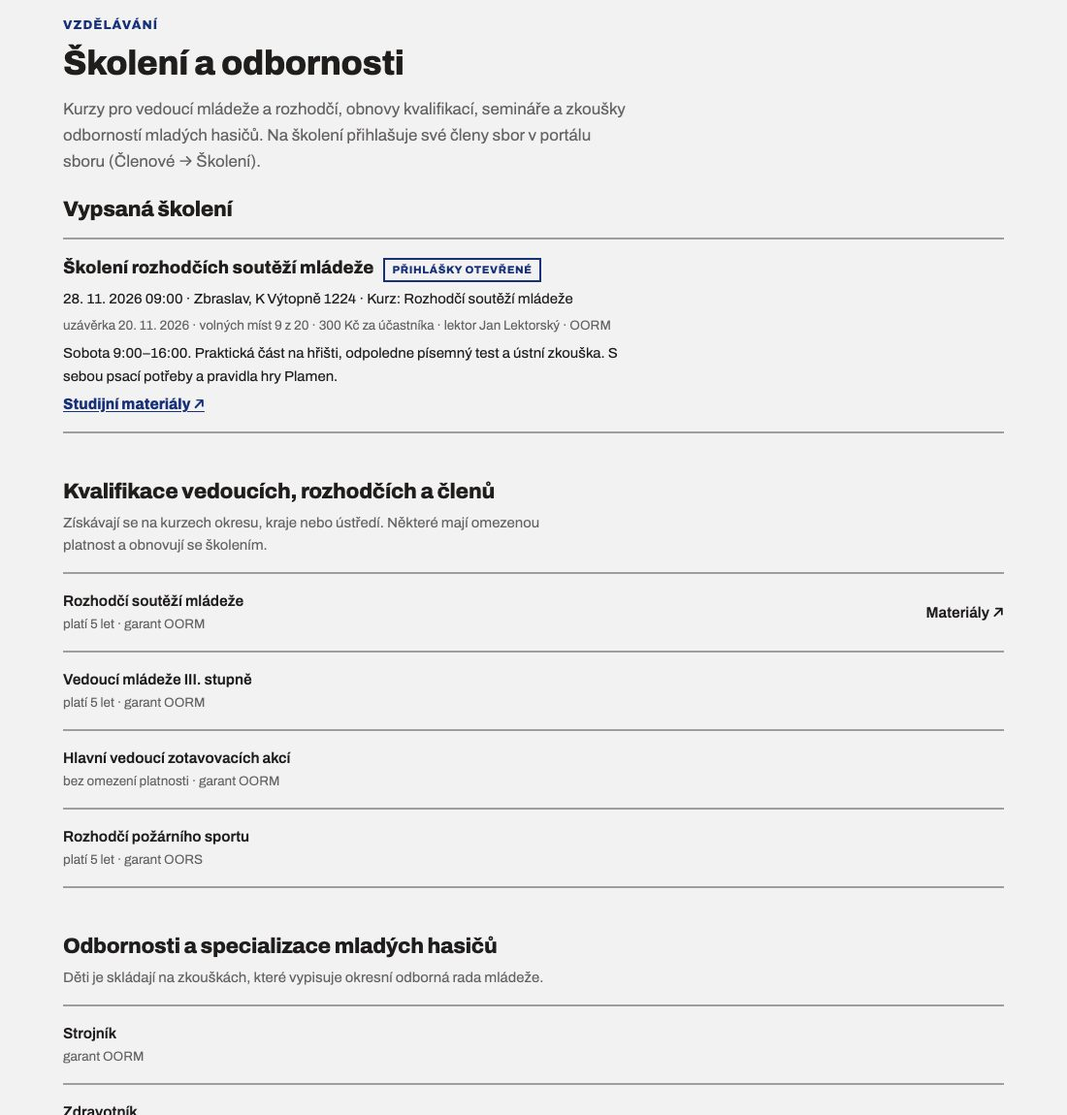
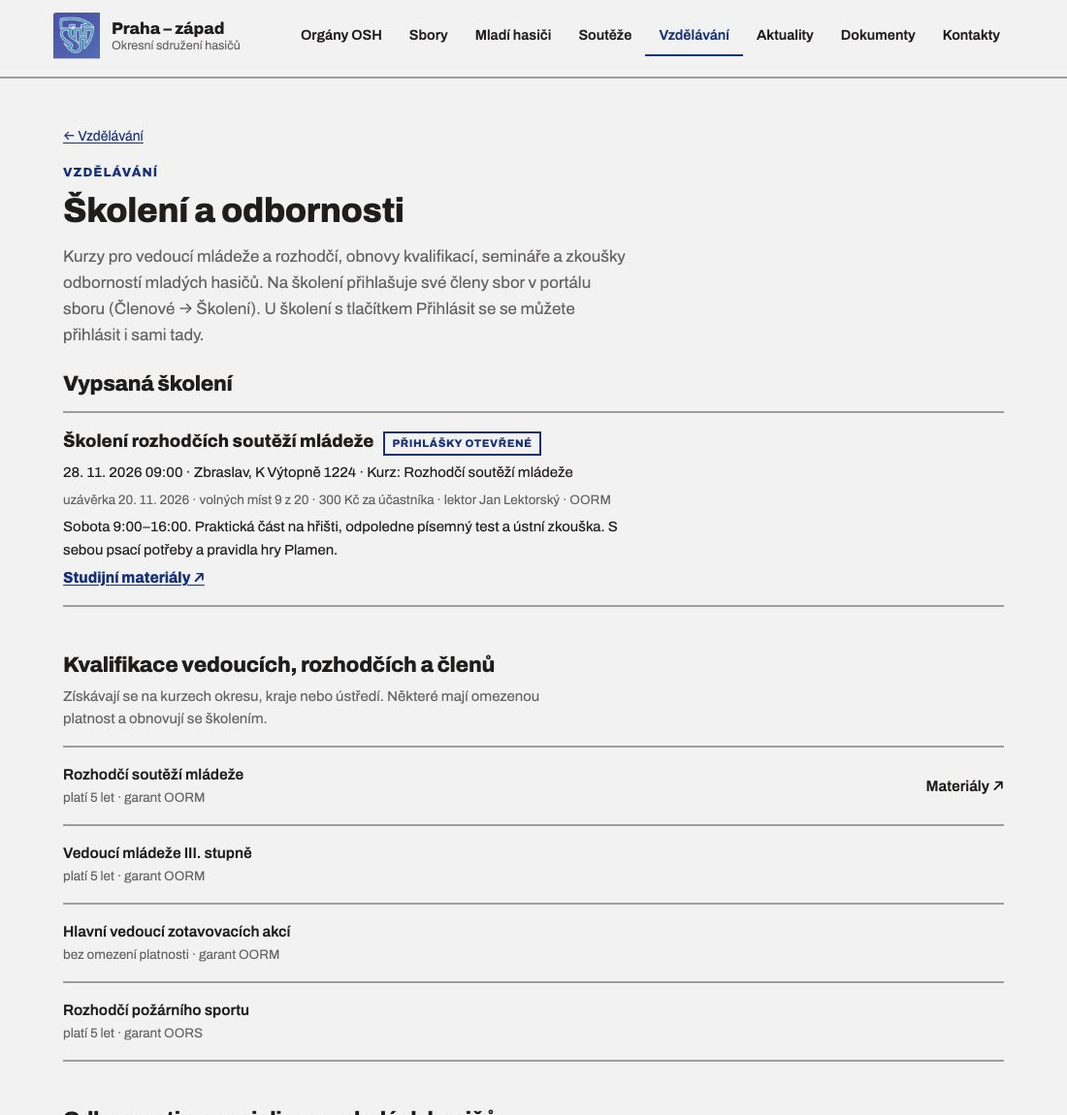
Web: nová sekce Vzdělávání v hlavní navigaci – rozcestník (Školení a odbornosti, Cvičné otázky, Online kurzy připravujeme, nejbližší školení a sady otázek), stránky školení a cvičných otázek přesunuty z Dokumentů, mobilní nabídka

diff --git a/index.html b/index.html
@@ -683,7 +683,7 @@ footer.site a:hover{ color:var(--color-action); text-decoration:underline; }
     <li><button class="linkrow" onClick="{{ goRodice }}"><span>Pro rodiče<small>Jak dítě přihlásit, co to stojí a kde se schází</small></span><span>→</span></button></li>
     <li><button class="linkrow" onClick="{{ goSouteze }}"><span>Soutěže<small>Plánované soutěže, přihlášky a výsledky</small></span><span>→</span></button></li>
     <li><button class="linkrow" onClick="{{ goSkoleni }}"><span>Odbornosti a specializace<small>Zkoušky odborností, kvalifikace vedoucích a rozhodčích, materiály</small></span><span>→</span></button></li>
-    <li><button class="linkrow" onClick="{{ goProcvicovani }}"><span>Procvičování otázek<small>Otázky k odbornostem a k testům na školení – učení po otázkách i test nanečisto</small></span><span>→</span></button></li>
+    <li><button class="linkrow" onClick="{{ goProcvicovani }}"><span>Cvičné otázky<small>K odbornostem a k testům na školení – učení po otázkách i test nanečisto</small></span><span>→</span></button></li>
     <li><div class="linkrow" style="cursor:default;"><span>Závody hasičské všestrannosti a brannosti<small>Cvičné testy a disciplíny</small></span><span class="soon">Připravujeme</span></div></li>
   </ul>
   <div class="block">
@@ -1036,9 +1036,36 @@ footer.site a:hover{ color:var(--color-action); text-decoration:underline; }
 </div>
 </sc-if>
 
+<!-- Vzdělávání (rozcestník sekce): školení a kurzy, cvičné otázky, online kurzy (připravujeme) – data ?co=web (skoleni, testy) -->
+<sc-if value="{{ isVzdelavani }}" hint-placeholder-val="{{ false }}">
+<div class="page">
+  <span class="kicker">Vzdělávání</span>
+  <h1 class="h1">Vzdělávání</h1>
+  <p class="lead">Školení, kurzy a příprava pro členy sborů – vedoucí mládeže, rozhodčí, strojníci a další. Pro mladé hasiče cvičné otázky k odbornostem.</p>
+  <div class="block grid3">
+    <button class="cell" onClick="{{ goSkoleni }}"><span class="cell-t">Školení a odbornosti →</span><span class="cell-c">{{ vz.skoleniText }}</span></button>
+    <button class="cell" onClick="{{ goProcvicovani }}"><span class="cell-t">Cvičné otázky →</span><span class="cell-c">{{ vz.otazkyText }}</span></button>
+    <div class="cell" style="cursor:default;display:flex;flex-direction:column;justify-content:center;"><span class="cell-t">Online kurzy <span class="soon">Připravujeme</span></span><span class="cell-c">Výukové materiály a kurzy, které projdete doma vlastním tempem.</span></div>
+  </div>
+  <sc-if value="{{ vz.maSkoleni }}" hint-placeholder-val="{{ false }}">
+    <div class="block">
+      <h2 class="h2">Nejbližší školení</h2>
+      <ul class="list"><sc-for list="{{ vz.skoleni }}" as="x" hint-placeholder-count="3"><li><button class="linkrow" onClick="{{ goSkoleni }}"><span>{{ x.nazev }}<small>{{ x.info }}</small></span><span>{{ x.stitek }} →</span></button></li></sc-for></ul>
+    </div>
+  </sc-if>
+  <sc-if value="{{ vz.maOtazky }}" hint-placeholder-val="{{ false }}">
+    <div class="block">
+      <h2 class="h2">Cvičné otázky</h2>
+      <ul class="list"><sc-for list="{{ sk.testy }}" as="t" hint-placeholder-count="2"><li><button class="linkrow" onClick="{{ t.go }}"><span>{{ t.nazev }}<small>{{ t.popis }}</small></span><span>Procvičovat →</span></button></li></sc-for></ul>
+    </div>
+  </sc-if>
+</div>
+</sc-if>
+
 <!-- Školení a odbornosti (B18): vypsaná školení okresu a katalog kvalifikací z ?co=web (Skoleni.gs) – bez jmen účastníků -->
 <sc-if value="{{ isSkoleni }}" hint-placeholder-val="{{ false }}">
 <div class="page">
+  <button class="back" onClick="{{ goVzdelavani }}">← Vzdělávání</button>
   <span class="kicker">Vzdělávání</span>
   <h1 class="h1">Školení a odbornosti</h1>
   <p class="lead">Kurzy pro vedoucí mládeže a rozhodčí, obnovy kvalifikací, semináře a zkoušky odborností mladých hasičů. Na školení přihlašuje své členy sbor v portálu sboru (Členové → Školení). U školení s tlačítkem Přihlásit se se můžete přihlásit i sami tady.</p>
@@ -1102,7 +1129,7 @@ footer.site a:hover{ color:var(--color-action); text-decoration:underline; }
     </div>
   </sc-for>
   <div class="block" id="procvicovani">
-    <h2 class="h2">Procvičování otázek</h2>
+    <h2 class="h2">Cvičné otázky</h2>
     <sc-if value="{{ sk.bezTestu }}" hint-placeholder-val="{{ false }}"><ul class="list"><li><div class="linkrow" style="cursor:default;"><span>Otázky k odbornostem a školením<small>Připravují odborné rady okresu</small></span><span class="soon">Připravujeme</span></div></li></ul></sc-if>
     <sc-if value="{{ sk.maTesty }}" hint-placeholder-val="{{ true }}">
       <p style="color:var(--muted);max-width:60ch;margin:-8px 0 16px;">Učte se otázku po otázce (co umíte, už se neukazuje), zkuste si test nanečisto, nebo si projděte všechny otázky se správnými odpověďmi.</p>
@@ -1119,7 +1146,7 @@ footer.site a:hover{ color:var(--color-action); text-decoration:underline; }
   <span class="kicker">Vzdělávání</span>
   <h1 class="h1">{{ pv.nadpis }}</h1>
   <sc-if value="{{ pv.vyber }}" hint-placeholder-val="{{ true }}">
-    <p class="lead">Otázky k testům na školení a ke zkouškám odborností. Vyberte sadu – můžete se učit otázku po otázce, vyzkoušet si test nanečisto, nebo si projít všechny otázky se správnými odpověďmi. Co už umíte, si pamatuje tento prohlížeč.</p>
+    <p class="lead">Otázky k testům na školení a ke zkouškám odborností mladých hasičů. Vyberte sadu – můžete se učit otázku po otázce, vyzkoušet si test nanečisto, nebo si projít všechny otázky se správnými odpověďmi. Co už umíte, si pamatuje tento prohlížeč.</p>
     <sc-if value="{{ pv.prazdno }}" hint-placeholder-val="{{ false }}"><p style="color:var(--muted);">Otázky zatím nejsou připravené. Připravují je odborné rady okresu.</p></sc-if>
     <sc-for list="{{ pv.skupiny }}" as="g" hint-placeholder-count="2"><div class="block">
       <h2 class="h2">{{ g.nadpis }}</h2>
@@ -1218,8 +1245,6 @@ footer.site a:hover{ color:var(--color-action); text-decoration:underline; }
       <sc-if value="{{ d.jeden }}" hint-placeholder-val="{{ true }}"><li><a class="linkrow" href="{{ d.url }}" target="_blank" rel="noopener"><span>{{ d.title }}<small>{{ d.copy }}</small></span><span>↗</span></a></li></sc-if>
       <sc-if value="{{ d.vice }}" hint-placeholder-val="{{ false }}"><li><div class="linkrow" style="cursor:default;flex-wrap:wrap;"><span style="flex:1 1 320px;">{{ d.title }}<small>{{ d.copy }}</small></span><span style="display:flex;gap:8px;flex-wrap:wrap;"><sc-for list="{{ d.odkazy }}" as="o" hint-placeholder-count="2"><a class="btn btn-ghost" href="{{ o.url }}" target="{{ o.cil }}" rel="noopener" style="text-decoration:none;">{{ o.l }} {{ o.znak }}</a></sc-for></span></div></li></sc-if>
     </sc-for>
-    <li><button class="linkrow" onClick="{{ goSkoleni }}"><span>Školení a odbornosti<small>Vypsaná školení, kvalifikace a studijní materiály</small></span><span>→</span></button></li>
-    <li><button class="linkrow" onClick="{{ goProcvicovani }}"><span>Procvičování otázek<small>Otázky k testům na školení a ke zkouškám odborností</small></span><span>→</span></button></li>
   </ul>
 </div>
 </sc-if>
@@ -1723,7 +1748,7 @@ class Component extends DCLogic {
 
   // Adresa stránky v URL – obnovení stránky, tlačítko Zpět a sdílení odkazu:
   //   ?stranka=sbory | ?stranka=aktuality&zalozka=kalendar | ?sbor=kamenny-ujezdec | ?organ=VV | ?soutez=2026-zhvb&kat=1 | ?clanek=… (otevritClanek)
-  STRANKY = ['organy', 'historie', 'azh', 'sbory', 'mh', 'rodice', 'souteze', 'aktuality', 'dokumenty', 'kontakty', 'prihlaska', 'prestup', 'skoleni', 'procvicovani'];
+  STRANKY = ['organy', 'historie', 'azh', 'sbory', 'mh', 'rodice', 'souteze', 'aktuality', 'dokumenty', 'kontakty', 'prihlaska', 'prestup', 'vzdelavani', 'skoleni', 'procvicovani'];
   slugSboru(t) { return String(t || '').replace(/^SDH\s+/i, '').toLowerCase().normalize('NFD').replace(/[\u0300-\u036f]/g, '').replace(/[^a-z0-9]+/g, '-').replace(/^-+|-+$/g, ''); }
   adresaStranky(page, st) {
     const q = new URLSearchParams();
@@ -1862,7 +1887,7 @@ class Component extends DCLogic {
 
     const goOrgany = () => this.go('organy');
     const goMh = () => this.go('mh');
-    const section = { home: 'home', organy: 'organy', organ: 'organy', historie: 'organy', azh: 'organy', sbory: 'sbory', sbor: 'sbory', mh: 'mh', rodice: 'mh', souteze: 'souteze', soutez: 'souteze', aktuality: 'aktuality', clanek: 'aktuality', dokumenty: 'dokumenty', skoleni: 'dokumenty', procvicovani: 'dokumenty', kontakty: 'kontakty' }[page];
+    const section = { home: 'home', organy: 'organy', organ: 'organy', historie: 'organy', azh: 'organy', sbory: 'sbory', sbor: 'sbory', mh: 'mh', rodice: 'mh', souteze: 'souteze', soutez: 'souteze', aktuality: 'aktuality', clanek: 'aktuality', dokumenty: 'dokumenty', vzdelavani: 'vzdelavani', skoleni: 'vzdelavani', procvicovani: 'vzdelavani', kontakty: 'kontakty' }[page];
 
     const navDef = [
       { key: 'organy', label: 'Orgány OSH', go: goOrgany, sub: [
@@ -1877,6 +1902,11 @@ class Component extends DCLogic {
         { label: 'Pro rodiče', go: () => this.go('rodice') }
       ] },
       { key: 'souteze', label: 'Soutěže', go: () => this.go('souteze') }, // mládež i dospělí – samostatná položka (dřív pod Mladí hasiči)
+      { key: 'vzdelavani', label: 'Vzdělávání', go: () => this.go('vzdelavani'), sub: [ // školení, cvičné otázky, online kurzy (dřív pod Dokumenty)
+        { label: 'Přehled', go: () => this.go('vzdelavani') },
+        { label: 'Školení a odbornosti', go: () => this.go('skoleni') },
+        { label: 'Cvičné otázky', go: () => this.go('procvicovani', { pvTest: null, pvAkt: null, pvFb: null, cv: null }) }
+      ] },
       { key: 'aktuality', label: 'Aktuality', go: () => this.go('aktuality') },
       { key: 'dokumenty', label: 'Dokumenty', go: () => this.go('dokumenty') },
       { key: 'kontakty', label: 'Kontakty', go: () => this.go('kontakty') }
@@ -1891,7 +1921,7 @@ class Component extends DCLogic {
         mobileNavOptions.push({ value: 'historie', label: '— Historie' }, { value: 'azh', label: '— Aktiv zasloužilých hasičů' });
       }
       if (n.key === 'mh') mobileNavOptions.push({ value: 'rodice', label: '— Pro rodiče' });
-      if (n.key === 'dokumenty') mobileNavOptions.push({ value: 'skoleni', label: '— Školení a odbornosti' }, { value: 'procvicovani', label: '— Procvičování otázek' });
+      if (n.key === 'vzdelavani') mobileNavOptions.push({ value: 'skoleni', label: '— Školení a odbornosti' }, { value: 'procvicovani', label: '— Cvičné otázky' });
     });
     const mobileNavValue = page === 'organ' ? 'organ:' + currentOrgan.key : (page === 'sbor' ? 'sbory' : page === 'soutez' ? 'souteze' : page === 'clanek' ? 'aktuality' : page);
     const onMobileNav = (e) => { const v = e.target.value; if (v.startsWith('organ:')) this.go('organ', { organKey: v.slice(6) }); else this.go(v); };
@@ -1927,8 +1957,8 @@ class Component extends DCLogic {
     const pvSkryt = !!this.state.pvSkryt, pvOkr = []; PVQ.forEach(q => { const k = q.okruh || 'Otázky'; let g = pvOkr.find(x => x.okruh === k); if (!g) pvOkr.push(g = { okruh: k, otazky: [] }); g.otazky.push(q); });
     const pvOkruhy = PVT ? PVT.otazky.map(q => q.okruh || 'Otázky').filter((x, i, a) => a.indexOf(x) === i) : [];
     const zbyvaU = PVQ.length - pvUmim, frontaU = (this.state.pvFronta || []).length;
-    const pv = { vyber: !PVT, sada: !!PVT, nadpis: PVT ? PVT.nazev : 'Procvičování otázek', zpetText: PVT ? 'Všechny sady otázek' : 'Školení a odbornosti',
-      zpet: () => PVT ? this.go('procvicovani', { pvTest: null, pvAkt: null, pvFb: null, cv: null }) : this.go('skoleni'),
+    const pv = { vyber: !PVT, sada: !!PVT, nadpis: PVT ? PVT.nazev : 'Cvičné otázky', zpetText: PVT ? 'Všechny cvičné otázky' : 'Vzdělávání',
+      zpet: () => PVT ? this.go('procvicovani', { pvTest: null, pvAkt: null, pvFb: null, cv: null }) : this.go('vzdelavani'),
       prazdno: !TSL.length, skupiny: [['dospělí', 'Pro dospělé'], ['MH', 'Pro mladé hasiče']].map(([pro, nadpis]) => ({ nadpis, sady: TSL.filter(t => (t.pro || 'dospělí') === pro).map(t => Object.assign(pvSada(t), { stav: 'Procvičovat' })) })).filter(g => g.sady.length),
       info: PVT ? (PVT.verejne ? 'Na testu na školení dostanete ' + nOt(PVT.otazek || 0) + ' náhodně právě z této sady' + (PVT.otazek ? ', projde nejvýš ' + PVT.maxChyb + ' chyb' : '') + '. Stačí se je naučit.'
         : PVT.otazek ? 'Cvičné otázky – na testu na školení (' + nOt(PVT.otazek) + ', nejvýš ' + PVT.maxChyb + ' chyb) jsou jiné, ale ze stejných předpisů.' : 'Cvičné otázky.') + ' Co umíte, si pamatuje tento prohlížeč.' : '',
@@ -1978,6 +2008,12 @@ class Component extends DCLogic {
         ['MH', 'Odbornosti a specializace mladých hasičů', 'Děti je skládají na zkouškách, které vypisuje okresní odborná rada mládeže.']]
         .map(([pro, nadpis, popis]) => ({ nadpis, popis, polozky: KVL.filter(k => k.pro === pro).map(k => ({ nazev: k.nazev.replace(/^Odbornost MH – /, ''), materialy: k.materialy, maMaterialy: !!k.materialy, bezMaterialu: !k.materialy,
           sub: [k.platnost ? 'platí ' + k.platnost + ' let' : pro === 'MH' ? '' : 'bez omezení platnosti', k.organ ? 'garant ' + k.organ : ''].filter(Boolean).join(' · ') })) })).filter(g => g.polozky.length) };
+
+    // ---- Vzdělávání (rozcestník): počty a nejbližší veřejná školení
+    const vzOtevrena = sk.skoleni.filter(x => !x.plno).length;
+    const vz = { maSkoleni: sk.skoleni.length > 0, skoleni: sk.skoleni.slice(0, 3), maOtazky: TSL.length > 0,
+      skoleniText: SKL.length ? 'Vypsaná školení okresu (' + SKL.length + (vzOtevrena ? ', přihlášky otevřené u ' + vzOtevrena : '') + '), kvalifikace a studijní materiály.' : 'Vypsaná školení okresu, kvalifikace vedoucích a rozhodčích, odbornosti mladých hasičů.',
+      otazkyText: TSL.length ? TSL.length + (TSL.length === 1 ? ' sada' : TSL.length < 5 ? ' sady' : ' sad') + ' otázek k testům na školení a ke zkouškám odborností – učení i test nanečisto.' : 'Otázky k testům na školení a ke zkouškám odborností. Připravujeme.' };
 
     // ---- Soutěže mládeže (data/souteze-2026.js)
     const S = (typeof window !== 'undefined' && window.OSH_SOUTEZE) || { souteze: [], sboryMH: [], kontaktyMH: {}, alias: {} };
@@ -2582,7 +2618,7 @@ class Component extends DCLogic {
       terminy: events.filter(e => e.type === 'termin').slice().sort(byDateDesc),
       calChips, calMonths,
       sborEvents, hasSborEvents: sborEvents.length > 0,
-      isSkoleni: page === 'skoleni', sk, skf, isProcvicovani: page === 'procvicovani', pv, goSkoleni: () => this.go('skoleni'), goProcvicovani: () => this.go('procvicovani', { pvTest: null, pvAkt: null, pvFb: null, cv: null }),
+      isSkoleni: page === 'skoleni', sk, skf, isProcvicovani: page === 'procvicovani', pv, isVzdelavani: page === 'vzdelavani', vz, goSkoleni: () => this.go('skoleni'), goVzdelavani: () => this.go('vzdelavani'), goProcvicovani: () => this.go('procvicovani', { pvTest: null, pvAkt: null, pvFb: null, cv: null }),
       isAktuality: page === 'aktuality', isDokumenty: page === 'dokumenty', isKontakty: page === 'kontakty', isPrihlaska: page === 'prihlaska', ph, isPrestup: page === 'prestup', pr,
       navItems, mobileNavOptions, mobileNavValue, onMobileNav,
       goHome: () => this.go('home'), goOrgany, goMh, goSbory: () => this.go('sbory'), goDokumenty: () => this.go('dokumenty'),

diff --git a/docs/testovani.html b/docs/testovani.html
@@ -153,8 +153,8 @@ figcaption { font-size:13px; color:var(--color-neutral-700); margin-top:8px; }
 <ol><li>Jen poprvé: v tabulce <strong>OSH data → Založit / doplnit strukturu</strong> (přibudou sloupce Disciplíny a Typ).</li><li><strong>Akce → Soutěže → Poháry, ligy a Plamen → Nový pohár</strong>: název „TEST Plamen 2025/2026“, Pro mládež, <strong>Hodnocení: Hra Plamen</strong>, uložit.</li><li><strong>Nová soutěž</strong> „TEST Plamen 1. kolo“: druh <strong>Hra Plamen – kolo</strong>, kategorie + mladší, + starší, předvolba <strong>1. kolo (4 × 60 m, štafeta CTIF)</strong>, pohár TEST Plamen, kolo 1. Druhá soutěž „TEST Plamen 2. kolo“: kategorie i přípravka, předvolba <strong>2. kolo</strong>, kolo 2.</li><li>U obou kol: Otevřít přihlášky → <strong>Doplnit 15 soutěžících v každé kategorii</strong> jen u 1. kola; u 2. kola přidejte ručně 3–4 družstva se <strong>stejnými názvy</strong> jako v 1. kole (a jedno přípravky).</li><li>Zahajte závod 2. kola, otevřete odkaz pro rozhodčí: zvolte disciplínu <strong>PÚ</strong> (terče L a P), pak <strong>PÚ CTIF</strong> (čas + trestné sekundy tlačítky +10 / +20) a <strong>dvojice</strong> (1. a 2. štafeta). Jednomu družstvu dejte NP, jinému v jedné disciplíně Nenastoupil.</li><li>Záložka <strong>Pořadí</strong>: celkové pořadí kola a pod ním vybraná disciplína. Pak <strong>Doplnit časy</strong>, <strong>Ověřit</strong> a <strong>Zveřejnit</strong> obě kola.</li><li>Otevřete pohár TEST Plamen: tabulka po disciplínách obou kol a součet; zkontrolujte ji i na webu (Soutěže).</li><li>Harmonogram (nejlépe u 2. kola po uzavření přihlášek): v detailu <strong>Časový harmonogram</strong> zkontrolujte nastavení (kategorie po sobě, pořadí starší, mladší, přípravka), <strong>Vylosovat harmonogram</strong>, <strong>Vytvořit PDF harmonogramu</strong>. V portálu sboru u soutěže uvidíte <strong>Kdy nastupujete</strong>, v panelu u disciplíny frontu podle času. Zapište pár pokusů o 10 minut později, než říká plán – časy dalších družstev té disciplíny se posunou.</li></ol>
 <p class="vysledek"><strong>Máte vidět:</strong> v kole body = součet umístění v disciplínách, při shodě vyhraje lepší ve 4 × 60 m (1. kolo) nebo v požárním útoku (2. kolo). V disciplíně při shodném času rozhoduje součet pokusů, pak trestné sekundy u lepšího času. Družstvo s Nenastoupil v některé disciplíně je „nehodnoceno“, s NP má umístění za platnými. Ročník sčítá umístění z obou kol, přípravka jen z 2. kola. PDF výsledková listina má tabulku umístění a každou disciplínu s pokusy. V harmonogramu žádné družstvo není na dvou místech naráz; přípravka (málo družstev) může mít pokus až po ostatních – aplikace to napíše.</p>
 <h3 id="o14">O14 Školení a kvalifikace (role Školení)</h3>
-<ol><li>Jen poprvé: v tabulce <strong>OSH data → Založit / doplnit strukturu</strong> (listy Druhy kvalifikací, Školení, Účastníci školení, Kvalifikace) a v listu Uživatelé do sloupce <strong>Školení</strong> dejte <code>všechny</code>. Rychle bez sborů: <strong>OSH data → Školení: vložit testovací školení, účastníky a test</strong> (testovací členy a otázky doplní samo).</li><li><strong>Školení → Školení → Vypsat školení</strong>: název začněte TEST, druh Kurz, kvalifikace Rozhodčí soutěží mládeže, termín za 2 týdny, uzávěrka, kapacita 3. Uložte (koncept) a <strong>Otevřete přihlášky</strong>. Druhé školení: druh <strong>Zkouška odborností MH</strong>, zaškrtněte strojníka a zdravotníka.</li><li>Po přihláškách sborů (S17) <strong>Uzavřete přihlášky</strong> a stáhněte <strong>Prezenční listinu</strong>.</li><li>U testovací zkoušky z menu (proběhla včera) vyplňte výsledky, jednomu dítěti změňte odbornost, <strong>Uložit výsledky</strong> a pak <strong>Vyhodnotit a zapsat kvalifikace</strong>.</li><li><strong>Test na školení</strong> (jen poprvé: menu <strong>OSH data → Školení: vložit návrh otázek testu</strong>): vypište TEST kurz s kvalifikací <strong>Vedoucí mládeže III. stupně</strong> na dnešek, přihlaste se na něj v portálu sboru (S17) – rychleji: <strong>OSH data → Školení: vložit testovací školení, účastníky a test</strong> připraví vše najednou (testovací členy, otázky a nastavení testu VM III, kurzy, účastníky i z webu, ukázkové pokusy). <strong>TEST: Kurz vedoucích mládeže III. a II. stupně</strong> je dnes až pozítří, 7 účastníků (dva žádají o II. stupeň, dva o obnovu – test mají jen ti na III. stupeň) (jedna z webu – Tereza Webová, nar. 12. 4. 1999), první už test splnil na 2. pokus, druhý 1× nesplnil; data narození k ověření jsou v listu Účastníci školení. <strong>… – přihlášky i z webu</strong> za 3 týdny má otevřené přihlášky a 6 účastníků (3 z webu) a v detailu klikněte <strong>Spustit test – QR kód</strong>. QR načtěte telefonem, vyberte se, zadejte datum narození (zkuste i špatné), odpovězte schválně špatně a odevzdejte; pak <strong>Zkusit znovu</strong> a test splňte. Zkuste i obnovit stránku uprostřed testu. Nakonec <strong>Ukončit test</strong>.</li><li><strong>Školení → Kvalifikace</strong>: filtry Končí platnost / Propadlé, <strong>Zapsat kvalifikaci</strong> ručně (vedoucí mládeže III. stupně, datum získání před 5 lety bez měsíce), u jedné <strong>Upravit</strong> platnost a jednu <strong>Ukončit</strong>.</li><li><strong>Přihláška z webu</strong>: u školení pro veřejnost <strong>Upravit</strong> → zaškrtněte <strong>Přihlášky i z webu</strong> (testovací kurz rozhodčích ATEST-SK1 a kurz vedoucích mládeže ATEST-SK4 ho mají). Na test.oshpz.cz <strong>Dokumenty → Školení a odbornosti</strong> → <strong>Přihlásit se</strong>: jednou se sborem z okresu, jednou s „Jiný sbor nebo nejsem členem SDH“. Pak v aplikaci jednoho účastníka <strong>Odhlásit</strong>.</li><li><strong>Veřejné otázky</strong>: v listu Druhy kvalifikací u VM3 dejte <strong>Test – veřejné otázky</strong> = ANO. Na webu <strong>Dokumenty → Procvičování otázek → Vedoucí mládeže III. stupně</strong> (do 5 minut): <strong>Učit se</strong> – odpovídejte, správně zodpovězené zmizí, chybné se vrátí; <strong>Test nanečisto</strong>; <strong>Všechny otázky</strong> se správnou odpovědí. Spusťte test na dnešním kurzu a napište ho s chybami</li></ol>
-<p class="vysledek"><strong>Máte vidět:</strong> koncept sbory nevidí; po otevření přihlášek je školení v Kalendáři, sborům v portálu a na webu na stránce Školení a odbornosti (bez jmen). PDF prezenční listiny se jmény, daty narození, sborem (u zkoušky i odbornost) a místem na podpis. Výsledky jdou zapsat až po začátku školení; vyhodnocení bez výsledku u všech nejde. Po vyhodnocení kvalifikace absolventům s platností od konce školení (odbornosti MH bez omezení) a e-mail sborům. Ruční kvalifikace se spáruje se seznamem členů a ukáže Končí platnost. Noční údržba pošle sboru upozornění 90 a 30 dní před koncem platnosti. Kdo má roli Školení jen pro MH, školení dospělých nevidí. Test: se špatným datem narození nezačne; po nesplnění výsledek s počtem chyb a otázkami s chybou (bez správných odpovědí), další pokus má jiné otázky; po obnovení stránky pokračuje stejný pokus s vyplněnými odpověďmi; po splnění u účastníka „test splněn (2. pokus, … chyb)“ a výsledek předvyplněný Absolvoval; po ukončení QR kód neplatí. Na webu v Procvičování cvičný test se správnými odpověďmi po vyhodnocení. Přihláška z webu: potvrzení na e-mail (v TESTu na spravci@), e-mail okresu a vybranému sboru; v detailu „z webu – e-mail, telefon“, sbor ho vidí v portálu bez kontaktu. Podruhé stejný člověk přihlásit nejde, po uzávěrce, při plné kapacitě a u dítěte na školení pro dospělé server odmítne. Veřejné otázky: test losuje z celé sady na webu, po odevzdání je u chyb i správná odpověď; v data/web.json sada není (jen živě).</p>
+<ol><li>Jen poprvé: v tabulce <strong>OSH data → Založit / doplnit strukturu</strong> (listy Druhy kvalifikací, Školení, Účastníci školení, Kvalifikace) a v listu Uživatelé do sloupce <strong>Školení</strong> dejte <code>všechny</code>. Rychle bez sborů: <strong>OSH data → Školení: vložit testovací školení, účastníky a test</strong> (testovací členy a otázky doplní samo).</li><li><strong>Školení → Školení → Vypsat školení</strong>: název začněte TEST, druh Kurz, kvalifikace Rozhodčí soutěží mládeže, termín za 2 týdny, uzávěrka, kapacita 3. Uložte (koncept) a <strong>Otevřete přihlášky</strong>. Druhé školení: druh <strong>Zkouška odborností MH</strong>, zaškrtněte strojníka a zdravotníka.</li><li>Po přihláškách sborů (S17) <strong>Uzavřete přihlášky</strong> a stáhněte <strong>Prezenční listinu</strong>.</li><li>U testovací zkoušky z menu (proběhla včera) vyplňte výsledky, jednomu dítěti změňte odbornost, <strong>Uložit výsledky</strong> a pak <strong>Vyhodnotit a zapsat kvalifikace</strong>.</li><li><strong>Test na školení</strong> (jen poprvé: menu <strong>OSH data → Školení: vložit návrh otázek testu</strong>): vypište TEST kurz s kvalifikací <strong>Vedoucí mládeže III. stupně</strong> na dnešek, přihlaste se na něj v portálu sboru (S17) – rychleji: <strong>OSH data → Školení: vložit testovací školení, účastníky a test</strong> připraví vše najednou (testovací členy, otázky a nastavení testu VM III, kurzy, účastníky i z webu, ukázkové pokusy). <strong>TEST: Kurz vedoucích mládeže III. a II. stupně</strong> je dnes až pozítří, 7 účastníků (dva žádají o II. stupeň, dva o obnovu – test mají jen ti na III. stupeň) (jedna z webu – Tereza Webová, nar. 12. 4. 1999), první už test splnil na 2. pokus, druhý 1× nesplnil; data narození k ověření jsou v listu Účastníci školení. <strong>… – přihlášky i z webu</strong> za 3 týdny má otevřené přihlášky a 6 účastníků (3 z webu) a v detailu klikněte <strong>Spustit test – QR kód</strong>. QR načtěte telefonem, vyberte se, zadejte datum narození (zkuste i špatné), odpovězte schválně špatně a odevzdejte; pak <strong>Zkusit znovu</strong> a test splňte. Zkuste i obnovit stránku uprostřed testu. Nakonec <strong>Ukončit test</strong>.</li><li><strong>Školení → Kvalifikace</strong>: filtry Končí platnost / Propadlé, <strong>Zapsat kvalifikaci</strong> ručně (vedoucí mládeže III. stupně, datum získání před 5 lety bez měsíce), u jedné <strong>Upravit</strong> platnost a jednu <strong>Ukončit</strong>.</li><li><strong>Přihláška z webu</strong>: u školení pro veřejnost <strong>Upravit</strong> → zaškrtněte <strong>Přihlášky i z webu</strong> (testovací kurz rozhodčích ATEST-SK1 a kurz vedoucích mládeže ATEST-SK4 ho mají). Na test.oshpz.cz <strong>Vzdělávání → Školení a odbornosti</strong> → <strong>Přihlásit se</strong>: jednou se sborem z okresu, jednou s „Jiný sbor nebo nejsem členem SDH“. Pak v aplikaci jednoho účastníka <strong>Odhlásit</strong>.</li><li><strong>Veřejné otázky</strong>: v listu Druhy kvalifikací u VM3 dejte <strong>Test – veřejné otázky</strong> = ANO. Na webu <strong>Vzdělávání → Cvičné otázky → Vedoucí mládeže III. stupně</strong> (do 5 minut): <strong>Učit se</strong> – odpovídejte, správně zodpovězené zmizí, chybné se vrátí; <strong>Test nanečisto</strong>; <strong>Všechny otázky</strong> se správnou odpovědí. Spusťte test na dnešním kurzu a napište ho s chybami</li></ol>
+<p class="vysledek"><strong>Máte vidět:</strong> koncept sbory nevidí; po otevření přihlášek je školení v Kalendáři, sborům v portálu a na webu ve Vzdělávání → Školení a odbornosti (bez jmen). PDF prezenční listiny se jmény, daty narození, sborem (u zkoušky i odbornost) a místem na podpis. Výsledky jdou zapsat až po začátku školení; vyhodnocení bez výsledku u všech nejde. Po vyhodnocení kvalifikace absolventům s platností od konce školení (odbornosti MH bez omezení) a e-mail sborům. Ruční kvalifikace se spáruje se seznamem členů a ukáže Končí platnost. Noční údržba pošle sboru upozornění 90 a 30 dní před koncem platnosti. Kdo má roli Školení jen pro MH, školení dospělých nevidí. Test: se špatným datem narození nezačne; po nesplnění výsledek s počtem chyb a otázkami s chybou (bez správných odpovědí), další pokus má jiné otázky; po obnovení stránky pokračuje stejný pokus s vyplněnými odpověďmi; po splnění u účastníka „test splněn (2. pokus, … chyb)“ a výsledek předvyplněný Absolvoval; po ukončení QR kód neplatí. Na webu v Procvičování cvičný test se správnými odpověďmi po vyhodnocení. Přihláška z webu: potvrzení na e-mail (v TESTu na spravci@), e-mail okresu a vybranému sboru; v detailu „z webu – e-mail, telefon“, sbor ho vidí v portálu bez kontaktu. Podruhé stejný člověk přihlásit nejde, po uzávěrce, při plné kapacitě a u dítěte na školení pro dospělé server odmítne. Veřejné otázky: test losuje z celé sady na webu, po odevzdání je u chyb i správná odpověď; v data/web.json sada není (jen živě).</p>
 <h2 id="spolecne-scenare-sboru-a-okresu">Společné scénáře sboru a okresu</h2>
 <p>Čtyři scénáře ověří, že si sbor a okres předají práci a výsledek se objeví všude, kde má. Domluvte se předem na dni, ať jeden krok navazuje na druhý.</p>
 <h3 id="a">A Akce sboru od žádosti po web</h3>

diff --git a/navody.html b/navody.html
@@ -225,9 +225,9 @@ figure.snimek figcaption { font-size:13.5px; color:var(--color-neutral-700); pad
 <li><b class="cesta">Členové → Školení</b>: školení, kurzy a zkoušky odborností, které vypsal okres – termín, místo, uzávěrka, volná místa, poplatek a studijní materiály.</li>
 <li><b>Přihlásit členy</b> → zaškrtněte lidi ze seznamu členů. Koho přihlásit nejde (věk, už přihlášený), je šedě s důvodem. U zkoušky s víc odbornostmi u každého dítěte vyberte, kterou bude skládat; u společného kurzu (např. vedoucí mládeže III. a II. stupně) stupeň. U kurzu a obnovy u každého zvolte <b>Nová</b>, nebo <b>Obnova</b>. Kdo v seznamu není: <b>+ Člověk, který není v seznamu</b>. → <b>Přihlásit</b>.</li>
 <li>Do začátku školení jde člověka <b>Odhlásit</b>.</li>
-<li>U některých školení se lidé mohou přihlásit i sami na webu (<b>Školení a odbornosti → Přihlásit se</b>). Když někdo zvolí váš sbor, přijde vám e-mail a v seznamu ho uvidíte s poznámkou „přihlásil(a) se z webu“. Neznáte ho? Dejte vědět okresu.</li>
+<li>U některých školení se lidé mohou přihlásit i sami na webu (<b>Vzdělávání → Školení a odbornosti → Přihlásit se</b>). Když někdo zvolí váš sbor, přijde vám e-mail a v seznamu ho uvidíte s poznámkou „přihlásil(a) se z webu“. Neznáte ho? Dejte vědět okresu.</li>
 <li>Záložka <b>Kvalifikace členů</b>: kdo má jakou kvalifikaci a do kdy platí. <b>Končí platnost</b> = do 90 dní.</li>
-<li>Na test a zkoušky odborností se připravíte na webu: <b>Dokumenty → Procvičování otázek</b> (i z Mladých hasičů). Vyberete sadu a pak:
+<li>Na test a zkoušky odborností se připravíte na webu: <b>Vzdělávání → Cvičné otázky</b> (i z Mladých hasičů). Vyberete sadu a pak:
 <ul><li><b>Učit se</b> – otázka po otázce, hned uvidíte správnou odpověď. Co zodpovíte správně, už se neukáže; chybnou dostanete znovu po pár dalších. Postup si pamatuje prohlížeč (Zvládnuto 12 z 45).</li>
 <li><b>Test nanečisto</b> – stejný počet otázek a chyb jako na školení, vyhodnocení na konci.</li>
 <li><b>Všechny otázky</b> – přehled po okruzích se správnou odpovědí, zvládnuté jde skrýt.</li></ul>

diff --git a/docs/claude-design-zadani.md b/docs/claude-design-zadani.md
@@ -41,6 +41,7 @@ Změny v šablonách od 14. 10. (zachovat):
 | `Aplikace OSH.dc.html` (26. 10., B17 členové) | nové obrazovky: sbor **Členové → Seznam** (`sbSeznamLive`, `cls.*`, formulář změny `cls.f` / `cls.maForm`), okres **Sbory → Seznam členů** (`okSeznamClLive`, `clo.*`, položka `clenovesez` v `OK_SKUPINY`); v přihlášce na soutěž blok **soupisky** `ss2.sp.*` (pozice, nabídka členů, ruční člen `ss2.sp.r` / `rOn`), u našich družstev `m.lzeUpravit` / `m.upravit` (Soupiska), `m.clenove`; blok **Přihlášky k tisku** `ss2.d.tisk` / `ss2.d.ved` / `vedOn` (údaje vedoucího jen v prohlížeči), obec v soupisce (`ss2.sp.r.obec`) a ve změně člena (`cls.f.obec`); okres u družstev `r.soupiska`, `r.maMimo`. Nový skript `soupiska.js` (načítá se za `prihlaska.js`). Pozor na názvy: `okClenoveLive` = Přihlášky členů, seznam je `okSeznamClLive`. |
 | `index.html` (27. 10., přihláška na školení) | stránka Školení: u školení `x.lzePrihlasit` tlačítko Přihlásit se (`x.prihlasit`), pod seznamem blok `skf.*` (formulář `skf.f` / `skf.on`, `skf.sbory`, `skf.odbornosti`, `skf.hotovo`) |
 | `Aplikace OSH.dc.html` (27. 10., víc stupňů kurzu) | formulář školení: kvalifikace vždy zaškrtávátka `sko.f.vyberKval` / `sko.f.kvalLegend` (dřív `jeZkouska`); výsledky `u.maObn` / `u.obn` (nová / obnova); portál sboru při přihlášení `c.maObn` / `c.obn`, ručně `x.maObn`, `x.kodLabel` |
+| `index.html` (27. 10., Vzdělávání) | nová položka navigace **Vzdělávání** (`navDef` key `vzdelavani`, podpoložky Přehled / Školení a odbornosti / Cvičné otázky) a rozcestník `isVzdelavani` (`vz.*`, dlaždice `grid3`, Online kurzy = Připravujeme); stránky `skoleni` a `procvicovani` patří do sekce Vzdělávání (zpět `goVzdelavani`), z Dokumentů odkazy pryč |
 | `index.html` (27. 10., procvičování) | nová stránka **Procvičování otázek** `isProcvicovani` (`pv.*`: výběr sady `pv.skupiny`, režimy `pv.rezimy` – Učit se `pv.u.*`, Test nanečisto `pv.t.*`, Všechny otázky `pv.v.*`, okruhy `pv.okruhy`, postup `pv.zvladnuto` / `pv.procent`); na stránce Školení jen odkazy `sk.testy[].go`; odkazy `goProcvicovani` z Mladých hasičů a Dokumentů, mobilní nabídka |
 | `index.html` (27. 10., víc stupňů kurzu) | přihláška na školení: `skf.kodLabel`, `skf.maObnovu` (Žádám o nová / obnova) |
 | `Aplikace OSH.dc.html` (27. 10., školení z webu) | formulář školení `sko.f.web` / `sko.f.jeVerejne` (Přihlášky i z webu); účastník `u.lzeOdhlasit` / `u.odhlasit` (okres odhlásí) |

diff --git a/CLAUDE.md b/CLAUDE.md
@@ -5,7 +5,7 @@ Kontext pro Claude Code. Komunikuj **česky**, stručně. Uživatel (Michal Kali
 ## Co to je
 Nový web a aplikace Okresního sdružení hasičů Praha – západ (OSH PZ, 71 sborů, 12 okrsků). Nahrazuje starý Joomla web www.oshpz.cz, který **zatím běží dál** – nic na něm neměň.
 
-- **Veřejný web** `index.html` – zprávy, kalendář, orgány a jejich zápisy, sbory (mapa, ARES), soutěže a výsledky.
+- **Veřejný web** `index.html` – zprávy, kalendář, orgány a jejich zápisy, sbory (mapa, ARES), soutěže a výsledky, **Vzdělávání** (`?stranka=vzdelavani` rozcestník, `skoleni` = školení a odbornosti, `procvicovani` = cvičné otázky; online kurzy zatím „Připravujeme“).
 - **Aplikace „Spojka“** `Aplikace OSH.dc.html` (název od 27. 10. 2026 – hasičská spojka propojuje okres, sbory a veřejnost; v textech „ve Spojce“, „do Spojky“, poprvé „Spojka – aplikace OSH Praha-západ“; soubor / adresa se nepřejmenovává) – portál sborů (modrý motiv `data-theme="sbor"`) a správa okresu (červený). Po přihlášení kódem pracuje se **skutečnými daty přes API**; moduly bez serveru jsou označené „Ukázka“. Bez přihlášení jde spustit celý dřívější prototyp (localStorage) – „Vyzkoušet ukázku“.
 - **Server** `apps-script/` – Google Apps Script vázaný na tabulku *OSH data TEST*, nasazený jako webová aplikace („spustit jako já“, přístup kdokoli).
 - **Skupiny** `skupiny-script/` – samostatný skript (ne vázaný na tabulku – menu se neukáže, funkce spouštět z editoru) pro tabulku *Skupiny OSH* (projekt „Skupiny OSHPZ“, clasp: `skupiny-script/.clasp.json`, ID `1fbeVVbAbsl1EZUEqJdpNOAIkJWrTWH3P_Dy9q2KJNtC15xz9b5zLywYY`; jen `clasp push`, nasazení není potřeba; přístup má admin@; tabulka se jmenuje **Sbory** a je na Můj disk účtu admin@, ID `13999ZKtfH9OfTExnYMdZSgY8byPq5rB6WAaVEVxoMV4` v `CFG.TABULKA_ID`): `Skupiny.gs` zakládá Google skupiny sborů, `Kontakty.gs` formulář kontaktů sborů (R5) a jejich převzetí do skupin a listů Sbory (B11) – nikdy neodebírá členy bez ručního ANO; `Prejmenovani.gs` přejmenuje sbor v obou tabulkách i ve skupině, po ruční změně adresy skupiny i sloupec Skupina (stará adresa zůstane aliasem; na webu je název klíčem v `index.html` a `data/*.js`).
